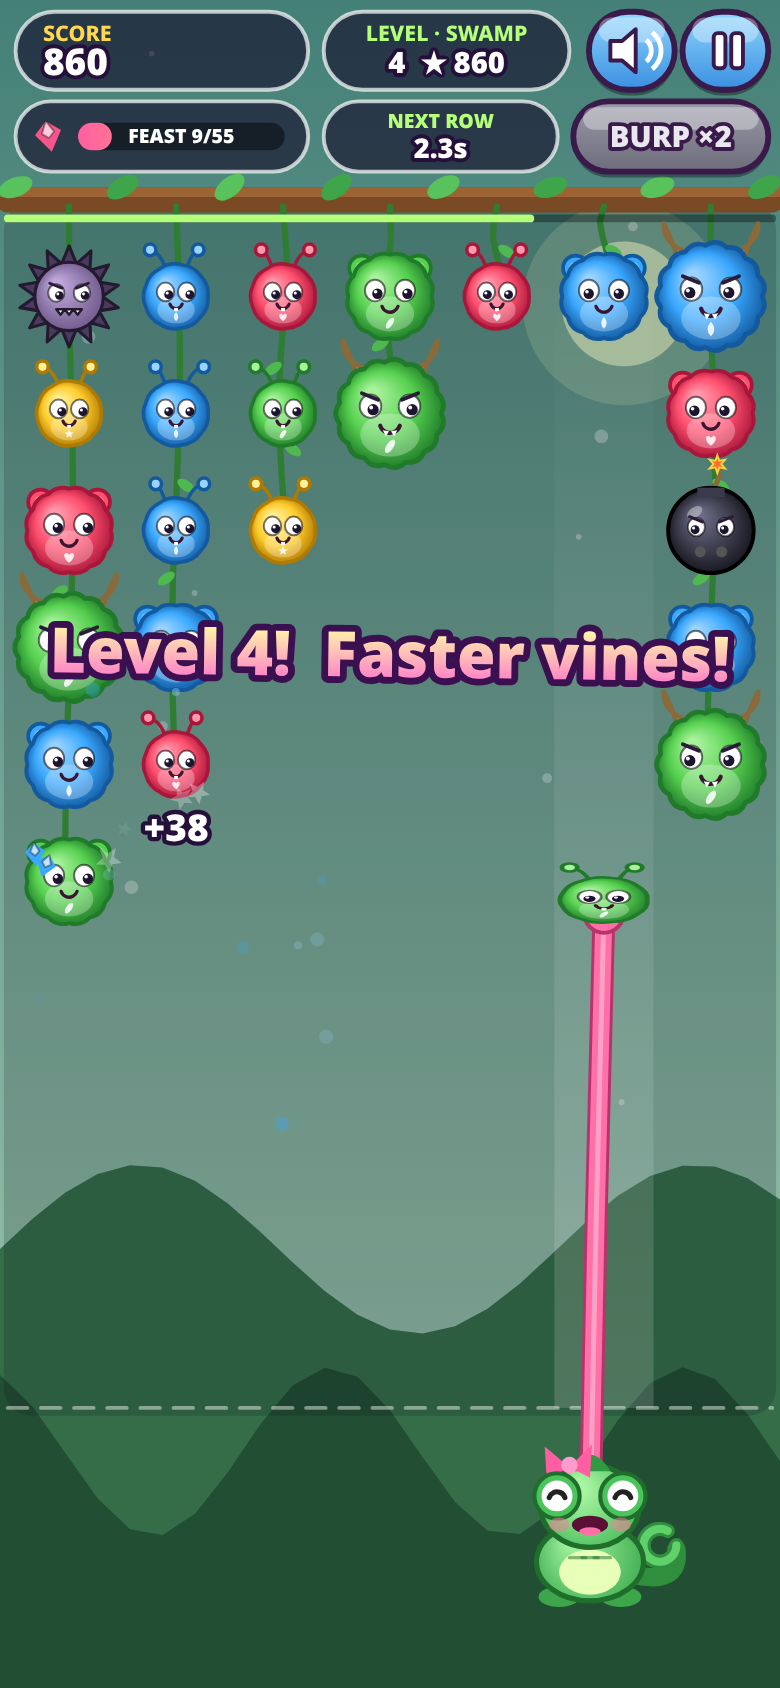
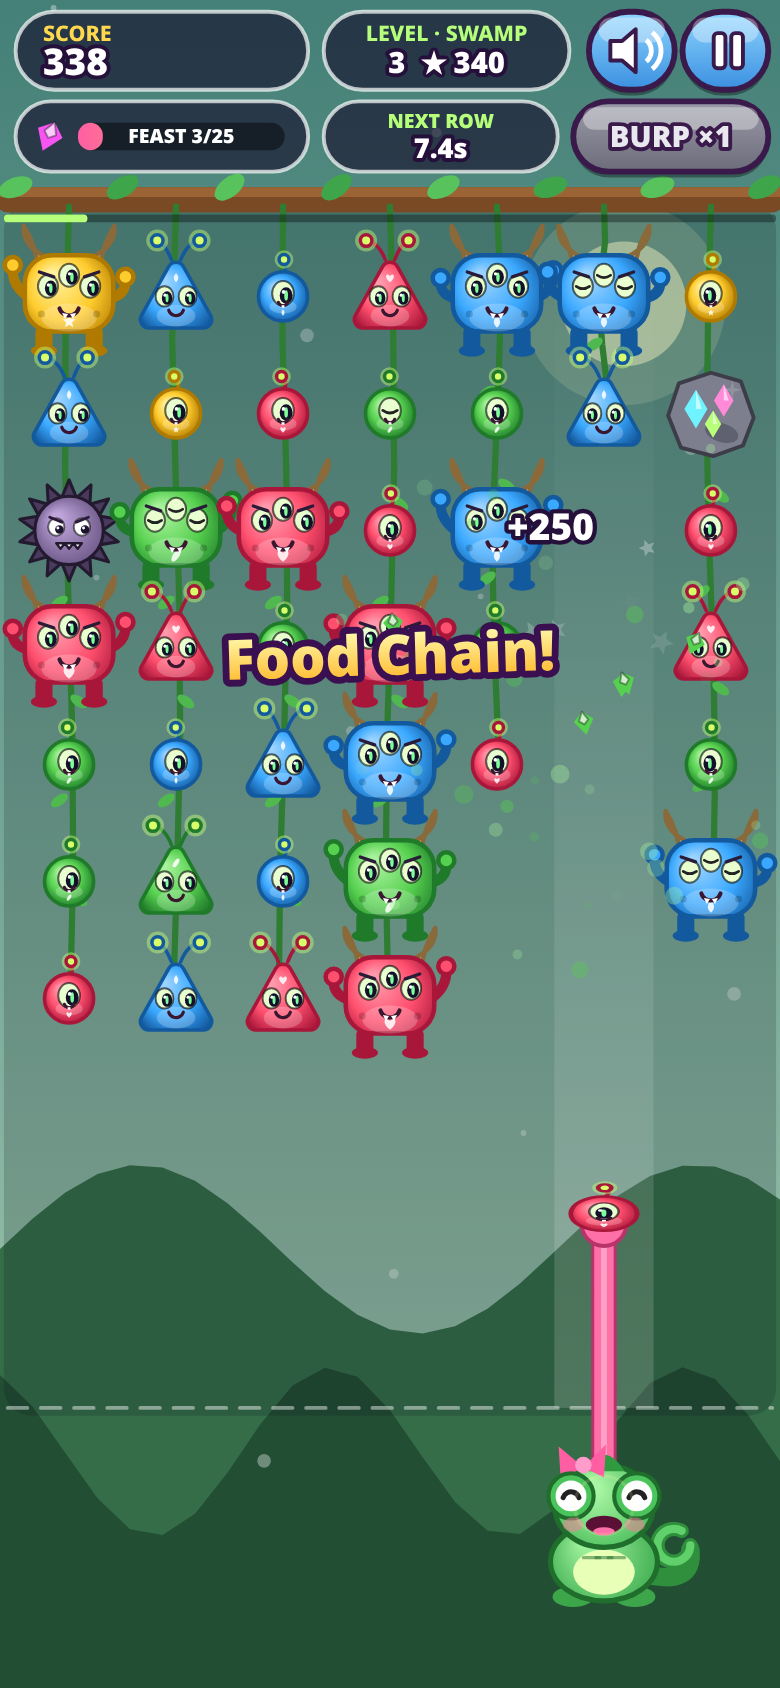
Kelly Crunch: alien critters with a distinct shape per size (round / triangle / horned brute with arms & legs), wider size gap, music at half volume

diff --git a/index.html b/index.html
@@ -107,7 +107,7 @@ const AU={ctx:null,m:null,sg:null,mg:null,nb:null,
   this.m=c.createGain();this.m.connect(c.destination);this.sg=c.createGain();this.sg.connect(this.m);this.mg=c.createGain();this.mg.connect(this.m);
   const comp=c.createDynamicsCompressor();this.m.disconnect();this.m.connect(comp);comp.connect(c.destination);
   const n=c.createBuffer(1,c.sampleRate*1,c.sampleRate),d=n.getChannelData(0);for(let i=0;i<d.length;i++)d[i]=Math.random()*2-1;this.nb=n;this.apply()}catch(e){this.ctx=null}},
- apply(){if(!this.ctx)return;const t=this.ctx.currentTime;this.m.gain.setTargetAtTime(save.muted?0:1,t,.02);this.sg.gain.setTargetAtTime(save.sfx?.75:0,t,.02);this.mg.gain.setTargetAtTime(save.music&&!paused?.30:0,t,.05)},
+ apply(){if(!this.ctx)return;const t=this.ctx.currentTime;this.m.gain.setTargetAtTime(save.muted?0:1,t,.02);this.sg.gain.setTargetAtTime(save.sfx?.75:0,t,.02);this.mg.gain.setTargetAtTime(save.music&&!paused?.15:0,t,.05)},
  unlock(){this.init();if(this.ctx&&this.ctx.state!=='running'&&!hidden)this.ctx.resume().catch(()=>{})},
  tone(f,d,type='square',v=.2,f2=null,dl=0,dest=null){const c=this.ctx;if(!c)return;const t=c.currentTime+dl,o=c.createOscillator(),g=c.createGain();o.type=type;o.frequency.setValueAtTime(f,t);if(f2)o.frequency.exponentialRampToValueAtTime(Math.max(20,f2),t+d);
   g.gain.setValueAtTime(0.0001,t);g.gain.exponentialRampToValueAtTime(v,t+.006);g.gain.exponentialRampToValueAtTime(.0001,t+d);o.connect(g);g.connect(dest||this.sg);o.start(t);o.stop(t+d+.03)},
@@ -163,7 +163,7 @@ const SIZES=['Nibbler','Muncher','Chomper'];
 const MAXR_E=10,MAXR_P=9,NC_E=7;
 const COMBO_WORDS=['','Crunchy!','Double Crunch!','Triple Crunch!','Super Crunch!','Mega Munch!','Ultra Munch!','KELLY CRUNCH!!'];
 const PUZ=PUZZLES; // generated + verified by solver (see build)
-const TIPS={0:'Swipe to move Kelly. Tap to grab the bottom critter, tap again to spit it!',1:'Feed a smaller critter to the next size up: Nibbler ➜ Muncher ➜ Chomper.',2:'A critter that has eaten is FULL (puffy cheeks). Feed it again and it POPS!',3:'Feed a FULL critter to a bigger one for a Food Chain pop!',4:'Pops spread to touching critters of the same size AND color.',10:'BOMBS eat any critter. Feed a bomb twice to blast everything around it!',15:'Never grab SPIKY critters! Pop something next to them to clear them.',20:'Gem rocks can’t be grabbed. Pop a critter beside one for a gem shower!'};
+const TIPS={0:'Swipe to move Kelly. Tap to grab the bottom critter, tap again to spit it!',1:'Feed a smaller critter to the next size up: Nibbler (round) ➜ Muncher (triangle) ➜ Chomper (horns & arms).',2:'A critter that has eaten is FULL (puffy cheeks). Feed it again and it POPS!',3:'Feed a FULL critter to a bigger one for a Food Chain pop!',4:'Pops spread to touching critters of the same size AND color.',10:'BOMBS eat any critter. Feed a bomb twice to blast everything around it!',15:'Never grab SPIKY critters! Pop something next to them to clear them.',20:'Gem rocks can’t be grabbed. Pop a critter beside one for a gem shower!'};
 let V=new Map(); // visual state per cell id
 function newVis(cell,x,y){const v={x,y,vx:0,vy:0,sx:1,sy:1,svx:0,svy:0,ph:Math.random()*6.28,open:0,blink:rand(1,4),look:0,shiver:0,eaten:null,bump:0};V.set(cell.id,v);return v}
 function geo(){const s=SB();const NC=G.NC,MAXR=G.MAXR;const tip=G.mode==='puzzle'?44:0;const top=s.t+122+tip;const bottomPad=106;
@@ -172,7 +172,7 @@ function geo(){const s=SB();const NC=G.NC,MAXR=G.MAXR;const tip=G.mode==='puzzle
  return{x0,colW,top,rowH,dangerY,base,kY:Math.min(s.b-14,dangerY+bottomPad-6),s,tip}}
 let GE=null;
 const colX=c=>GE.x0+GE.colW*(c+.5),rowY=r=>GE.top+GE.rowH*(r+.5);
-const radius=cell=>cell.k==='c'?GE.base*[.30,.39,.48][cell.s]:GE.base*.40;
+const radius=cell=>cell.k==='c'?GE.base*[.23,.36,.47][cell.s]:GE.base*.40;
 function startGame(mode,pi=0){AU.unlock();V=new Map();parts.length=0;gems.length=0;labels.length=0;
  G={mode,pi,NC:NC_E,MAXR:MAXR_E,B:[],kelly:{col:3,x:0,vx:0,stun:0,mouth:0,emo:'',emoT:0,squash:0,bob:0,look:0,blinkT:2,hop:0},hold:null,tg:null,flights:[],res:null,queue:[],
   score:0,shown:0,level:1,gemsN:0,need:25,pushT:0,burps:1,chainMax:0,popped:0,moves:0,limit:0,par:0,undo:[],t:0,panel:null,panelT:0,shake:0,hitstop:0,hint:null,warnT:0,danger:0,newBest:false,ann:null,tipT:0,overT:0,lastPush:0,clearBonus:0};
@@ -327,21 +327,39 @@ function eyes(R,ex,ey,er,v,kind){const K=G?G.kelly:null;const look=K?clamp((K.x-
   if(bl){X.strokeStyle='#222';X.lineWidth=er*.28;X.beginPath();X.moveTo(x-er*.7,y);X.quadraticCurveTo(x,y+er*.5,x+er*.7,y);X.stroke();continue}
   const px=x+look*er*.38,py=y+er*.32;X.fillStyle='#1d1530';X.beginPath();X.arc(px,py,er*.52,0,6.283);X.fill();X.fillStyle='#fff';X.beginPath();X.arc(px-er*.18,py-er*.2,er*.18,0,6.283);X.fill()}
  if(kind==='angry'){X.strokeStyle='#2a1c38';X.lineWidth=er*.35;X.lineCap='round';X.beginPath();X.moveTo(-ex-er*.8,ey-er*1.2);X.lineTo(-ex+er*.7,ey-er*.6);X.moveTo(ex+er*.8,ey-er*1.2);X.lineTo(ex-er*.7,ey-er*.6);X.stroke()}}
+function alienEyes(P,er,v,kind){const K=G?G.kelly:null;const look=K?clamp((K.x-v.x)/160,-1,1):Math.sin(RT+v.ph)*.6;const bl=v.blink<.12;
+ for(const [x,y] of P){X.fillStyle='#e9ffd0';X.beginPath();X.ellipse(x,y,er*1.05,er*1.2,0,0,6.283);X.fill();X.strokeStyle='rgba(0,0,0,.6)';X.lineWidth=Math.max(1,er*.14);X.stroke();
+  if(bl){X.strokeStyle='#222';X.lineWidth=er*.28;X.beginPath();X.moveTo(x-er*.7,y);X.quadraticCurveTo(x,y+er*.5,x+er*.7,y);X.stroke();continue}
+  const px=x+look*er*.3,py=y+er*.2;X.fillStyle='#14102a';X.beginPath();X.ellipse(px,py,er*.62,er*.8,0,0,6.283);X.fill();X.fillStyle='#7dff9a';X.beginPath();X.ellipse(px,py,er*.18,er*.5,0,0,6.283);X.fill();X.fillStyle='#fff';X.beginPath();X.arc(px-er*.25,py-er*.35,er*.18,0,6.283);X.fill()}
+ if(kind==='angry'){X.strokeStyle='#2a1c38';X.lineWidth=er*.35;X.lineCap='round';const a=P[0],b=P[P.length-1];X.beginPath();X.moveTo(a[0]-er*.9,a[1]-er*1.5);X.lineTo(a[0]+er*.6,a[1]-er*1.0);X.moveTo(b[0]+er*.9,b[1]-er*1.5);X.lineTo(b[0]-er*.6,b[1]-er*1.0);X.stroke()}}
 function drawCritter(cell,x,y,R,v,alpha=1){X.save();X.translate(x,y);const wob=cell.f?Math.sin(RT*9+v.ph)*.05:0;X.scale(v.sx*(1+wob),v.sy*(1-wob));if(alpha<1)X.globalAlpha=alpha;
  const lw=Math.max(1.8,R*.09);
  if(cell.k==='c'){const C=COLORS[cell.c],s=cell.s,full=cell.f;const RR=R*(full?1.08:1);
-  // ears / horns / antennae
-  X.lineWidth=lw;X.strokeStyle=C.d;
-  if(s===0){X.lineCap='round';for(const sx of [-1,1]){X.beginPath();X.moveTo(sx*RR*.3,-RR*.8);X.quadraticCurveTo(sx*RR*.5,-RR*1.4,sx*RR*.75+Math.sin(RT*4+v.ph)*2,-RR*1.45);X.stroke();X.fillStyle=C.l;X.beginPath();X.arc(sx*RR*.75+Math.sin(RT*4+v.ph)*2,-RR*1.45,RR*.18,0,6.283);X.fill();X.stroke()}}
-  else if(s===1){for(const sx of [-1,1]){X.fillStyle=C.b;X.beginPath();X.arc(sx*RR*.68,-RR*.68,RR*.3,0,6.283);X.fill();X.stroke();X.fillStyle=C.l;X.beginPath();X.arc(sx*RR*.68,-RR*.68,RR*.15,0,6.283);X.fill()}}
-  else{for(const sx of [-1,1]){X.fillStyle='#fff3d6';X.beginPath();X.moveTo(sx*RR*.35,-RR*.82);X.quadraticCurveTo(sx*RR*.95,-RR*1.0,sx*RR*.92,-RR*1.42);X.quadraticCurveTo(sx*RR*.7,-RR*1.0,sx*RR*.62,-RR*.62);X.closePath();X.fill();X.strokeStyle='#8a6a3a';X.stroke()}}
+  // ALIEN bodies: size 0 = round blob (1 eye, 1 antenna), 1 = TRIANGLE (2 eyes, 2 antennae), 2 = big brute with ARMS, LEGS, HORNS (3 eyes)
+  X.lineWidth=lw;X.strokeStyle=C.d;X.lineCap='round';
+  const glow=(x,y,r)=>{X.fillStyle='rgba(200,255,120,.45)';X.beginPath();X.arc(x,y,r*1.9,0,6.283);X.fill();X.fillStyle='#d8ff6a';X.beginPath();X.arc(x,y,r,0,6.283);X.fill();X.strokeStyle=C.d;X.stroke()};
+  const wv=Math.sin(RT*4+v.ph)*RR*.08;
+  if(s===0){X.beginPath();X.moveTo(0,-RR*.9);X.quadraticCurveTo(RR*.25,-RR*1.3,wv,-RR*1.5);X.stroke();glow(wv,-RR*1.5,RR*.2)}
+  else if(s===1){for(const sx of [-1,1]){X.strokeStyle=C.d;X.beginPath();X.moveTo(sx*RR*.12,-RR*.95);X.quadraticCurveTo(sx*RR*.3,-RR*1.4,sx*RR*.55+wv,-RR*1.45);X.stroke();glow(sx*RR*.55+wv,-RR*1.45,RR*.15)}}
+  else{// legs
+   X.fillStyle=C.d;for(const sx of [-1,1]){rr(sx*RR*.5-RR*.17,RR*.6,RR*.34,RR*.5,RR*.12);X.fill();X.beginPath();X.ellipse(sx*RR*.5,RR*1.08,RR*.26,RR*.12,0,0,6.283);X.fill()}
+   // arms (waving)
+   for(const sx of [-1,1]){const a=Math.sin(RT*5+v.ph+sx)*.35;X.strokeStyle=C.d;X.lineWidth=RR*.2;X.beginPath();X.moveTo(sx*RR*.75,RR*.05);X.quadraticCurveTo(sx*RR*1.15,RR*(-.1+a*.3),sx*RR*1.12,RR*(-.45+a*.4));X.stroke();
+    X.fillStyle=C.b;X.beginPath();X.arc(sx*RR*1.12,RR*(-.5+a*.4),RR*.16,0,6.283);X.fill();X.lineWidth=lw;X.stroke()}
+   // horns
+   for(const sx of [-1,1]){X.fillStyle='#fff3d6';X.beginPath();X.moveTo(sx*RR*.3,-RR*.72);X.quadraticCurveTo(sx*RR*.95,-RR*.95,sx*RR*.9,-RR*1.4);X.quadraticCurveTo(sx*RR*.65,-RR*1.0,sx*RR*.62,-RR*.55);X.closePath();X.fill();X.strokeStyle='#8a6a3a';X.lineWidth=lw;X.stroke()}}
   // body
   const gr=X.createRadialGradient(-RR*.35,-RR*.4,RR*.1,0,0,RR*1.1);gr.addColorStop(0,C.l);gr.addColorStop(.55,C.b);gr.addColorStop(1,C.d);
-  X.fillStyle=gr;fuzzPath(RR,[9,12,15][s],RR*[.10,.13,.14][s]);X.fill();X.strokeStyle=C.d;X.lineWidth=lw;X.stroke();
-  X.fillStyle='rgba(255,255,255,.28)';X.beginPath();X.ellipse(0,RR*.42,RR*.58,RR*.42,0,0,6.283);X.fill();
-  symbol(cell.c,0,RR*.64,RR*.15);
+  X.fillStyle=gr;X.beginPath();
+  if(s===0){X.arc(0,0,RR,0,6.283)}
+  else if(s===1){const P=[[0,-RR*1.12],[RR*1.08,RR*.82],[-RR*1.08,RR*.82]];const rad=RR*.22;X.moveTo((P[0][0]+P[2][0])/2,(P[0][1]+P[2][1])/2);for(let k=0;k<3;k++){const a=P[k],b=P[(k+1)%3];X.arcTo(a[0],a[1],b[0],b[1],rad)}X.closePath()}
+  else{rr(-RR*.88,-RR*.82,RR*1.76,RR*1.52,RR*.55)}
+  X.fill();X.strokeStyle=C.d;X.lineWidth=lw;X.stroke();
+  X.fillStyle='rgba(255,255,255,.22)';X.beginPath();X.ellipse(0,RR*(s===1?.5:.42),RR*(s===1?.5:.55),RR*.28,0,0,6.283);X.fill();
+  symbol(cell.c,s===1?0:0,s===0?RR*.66:s===1?-RR*.48:RR*.5,RR*(s===1?.13:.14));
+  if(s===2){X.fillStyle='rgba(0,0,0,.18)';for(const sx of [-1,1]){X.beginPath();X.arc(sx*RR*.55,RR*.35,RR*.07,0,6.283);X.fill()}}
   // face
-  const er=RR*[.27,.24,.21][s];eyes(RR,RR*[.33,.36,.38][s],-RR*.14,er,v,s===2&&!full?'angry':'');
+  if(s===1)X.translate(0,RR*.12);if(s===0)alienEyes([[0,-RR*.12]],RR*.42,v,'');else if(s===1)alienEyes([[-RR*.3,-RR*.12],[RR*.3,-RR*.12]],RR*.22,v,'');else alienEyes([[-RR*.42,-RR*.2],[0,-RR*.42],[RR*.42,-RR*.2]],RR*.19,v,full?'':'angry');
   const op=v.open;
   if(full){X.fillStyle='rgba(255,120,150,.55)';for(const sx of [-1,1]){X.beginPath();X.ellipse(sx*RR*.62,RR*.18,RR*.22,RR*.16,0,0,6.283);X.fill()}
    X.strokeStyle='#3a1630';X.lineWidth=lw*.9;X.lineCap='round';X.beginPath();X.moveTo(-RR*.22,RR*.3);X.quadraticCurveTo(-RR*.11,RR*.38,0,RR*.3);X.quadraticCurveTo(RR*.11,RR*.38,RR*.22,RR*.3);X.stroke();
@@ -540,7 +558,7 @@ function drawTitle(){const s=SB();menuBtns=[];
  if(midH>110){const cx=(s.l+s.r)/2;const cols=5,cw=Math.min(60,(s.r-s.l-40)/cols);const x0=cx-cw*cols/2;const yv=mid+12;X.fillStyle='#7a4a24';rr(x0-8,yv-8,cw*cols+16,10,5);X.fill();
   const demoCells=[[{k:'c',s:2,c:0,f:0},{k:'c',s:1,c:0,f:1}],[{k:'c',s:1,c:1,f:0},{k:'c',s:0,c:3,f:0}],[{k:'c',s:2,c:4,f:0},{k:'b',n:1}],[{k:'c',s:1,c:2,f:0},{k:'c',s:0,c:2,f:0}],[{k:'c',s:2,c:3,f:1},{k:'x'}]];
   const rh=Math.min(50,(midH-90)/2.4);const baseR=Math.min(cw,rh);GE=GE||{base:baseR};const oldGE=GE;GE={base:baseR,x0,colW:cw,top:yv,rowH:rh,dangerY:yv+rh*2.5,kY:by-12,s};
-  demoCells.forEach((col,c)=>col.forEach((cell,r)=>{const x=x0+cw*(c+.5),y=yv+rh*(r+.6)+Math.sin(RT*2+c)*2;X.strokeStyle='#2f7d33';X.lineWidth=3;X.beginPath();X.moveTo(x,yv);X.lineTo(x,y);X.stroke();drawCritter(cell,x,y,cell.k==='c'?baseR*[.3,.39,.48][cell.s]:baseR*.4,fakeV(c*1.3+r,x))}));
+  demoCells.forEach((col,c)=>col.forEach((cell,r)=>{const x=x0+cw*(c+.5),y=yv+rh*(r+.6)+Math.sin(RT*2+c)*2;X.strokeStyle='#2f7d33';X.lineWidth=3;X.beginPath();X.moveTo(x,yv);X.lineTo(x,y);X.stroke();drawCritter(cell,x,y,cell.k==='c'?baseR*[.23,.36,.47][cell.s]:baseR*.4,fakeV(c*1.3+r,x))}));
   const kx=x0+cw*(2.5+Math.sin(RT*.9)*1.6);drawKelly(kx,Math.min(by-12,yv+rh*2.5+90),clamp(baseR/52,.8,1.1));GE=oldGE}
  const bw=Math.min(280,s.r-s.l-40),bx=(s.l+s.r)/2-bw/2;
  button('endless',bx,by,bw,bh,'▶ Endless',()=>startGame('endless'),{col:['#b6ff7a','#46b04a'],sub:'Best '+(save.best||0).toLocaleString()+(save.bestCombo?'  ·  Best combo ×'+save.bestCombo:'')});
@@ -556,7 +574,7 @@ function drawLevels(){const s=SB();menuBtns=[];button('back',s.l+8,s.t+6,90,40,'
  for(let i=0;i<PUZ.length;i++){const c=i%cols,r=Math.floor(i/cols);const x=x0+c*(cw+gap),y=y0+r*(ch+gap);const lock=i>=un;const st=save.stars[i]||0;const tier=Math.floor(i/5);const tc=[['#b6ff7a','#46b04a'],['#8fd6ff','#3a8fe0'],['#ffd84d','#ff9f1c'],['#d6b4ff','#8a4ae0'],['#ff9ad0','#d4479a'],['#ffb07a','#e0602e']][tier%6];
   button('lv'+i,x,y,cw,ch,lock?'🔒':''+(i+1),()=>{if(!lock)startGame('puzzle',i)},{dis:lock,col:tc,r:14,px:Math.min(22,ch*.36),icon:lock?null:(bx,byy)=>{outlined(''+(i+1),bx,byy-ch*.1,Math.min(22,ch*.36),'#fff','#3a1a4a',4);X.font=FONT(Math.min(13,ch*.22));X.textAlign='center';X.fillStyle=st?'#fff6a0':'rgba(40,20,60,.5)';X.fillText('★'.repeat(st)+'☆'.repeat(3-st),bx,byy+ch*.26)}})}}
 const HOW=[{t:'Meet Kelly!',d:'Swipe left or right to move Kelly between columns. Tap anywhere to shoot her tongue up and grab the bottom critter. Tap again to spit it into the column above her. (Keyboard: ← → move, Space shoots.)',art:'kelly'},
- {t:'Feed the Food Chain',d:'Nibblers feed Munchers, and Munchers feed Chompers. Spit the wrong size and it just sticks on the bottom of the column.',art:'sizes'},
+ {t:'Feed the Food Chain',d:'Round Nibblers feed triangle Munchers, and Munchers feed horned Chompers. Spit the wrong size and it just sticks on the bottom of the column.',art:'sizes'},
  {t:'Full Critters Pop',d:'A critter that has eaten gets puffy cheeks: it is FULL. Feed it once more, or feed it to a bigger critter, and it POPS!',art:'full'},
  {t:'Chain Reactions',d:'A pop spreads to touching critters of the same size AND color. Critters below climb up, and if they climb into a bigger critter it eats them. That’s a combo!',art:'chain'},
  {t:'Special Critters',d:'BOMB: eats any critter; feed it twice to blast everything around it.  SPIKY: never grab it! Pop a neighbor to clear it.  GEM ROCK: can’t be grabbed; pop a neighbor for a gem shower.',art:'special'},
@@ -567,7 +585,7 @@ function drawHow(){const s=SB();menuBtns=[];const P=HOW[howPage];button('hx',s.r
  reg('hp',s.l+8,s.t+6,140,40);outlined((howPage+1)+' / '+HOW.length,s.l+40,s.t+26,16,'#fff','#24103a',4);
  let px=28;while(textW(P.t,px)>s.r-s.l-24&&px>16)px-=2;reg('ht',s.l+12,s.t+54,s.r-s.l-24,px+10);outlined(P.t,(s.l+s.r)/2,s.t+59+px/2,px,'#ffe14d','#3a1050',6);
  const ay=s.t+70+px,ah=Math.min(270,(s.b-ay)*.42);reg('ha',s.l+12,ay,s.r-s.l-24,ah);X.fillStyle='rgba(20,10,40,.45)';rr(s.l+12,ay,s.r-s.l-24,ah,18);X.fill();
- const cx=(s.l+s.r)/2,cy=ay+ah/2,R=Math.min(34,ah*.17);const C=(k,sz,c,f,x,y,n)=>drawCritter(k==='c'?{k,s:sz,c,f}:{k,n:n||0},x,y,k==='c'?R*[.62,.8,1][sz]:R*.85,fakeV(x,x));const arrow=(x1,x2,y)=>{X.strokeStyle='#fff';X.lineWidth=3;X.beginPath();X.moveTo(x1,y);X.lineTo(x2,y);X.lineTo(x2-7,y-6);X.moveTo(x2,y);X.lineTo(x2-7,y+6);X.stroke()};
+ const cx=(s.l+s.r)/2,cy=ay+ah/2,R=Math.min(34,ah*.17);const C=(k,sz,c,f,x,y,n)=>drawCritter(k==='c'?{k,s:sz,c,f}:{k,n:n||0},x,y,k==='c'?R*[.5,.76,1][sz]:R*.85,fakeV(x,x));const arrow=(x1,x2,y)=>{X.strokeStyle='#fff';X.lineWidth=3;X.beginPath();X.moveTo(x1,y);X.lineTo(x2,y);X.lineTo(x2-7,y-6);X.moveTo(x2,y);X.lineTo(x2-7,y+6);X.stroke()};
  GE=GE||{base:52};
  if(P.art==='kelly'){const kx=cx+Math.sin(RT*1.5)*60;drawKelly(kx,ay+ah-12,clamp(ah/180,.7,1.05));C('c',1,1,0,cx,ay+R+10);X.strokeStyle='rgba(255,255,255,.6)';X.lineWidth=2;X.setLineDash([5,5]);X.beginPath();X.moveTo(cx-90,ay+ah-30);X.lineTo(cx+90,ay+ah-30);X.stroke();X.setLineDash([])}
  else if(P.art==='sizes'){C('c',0,2,0,cx-100,cy);arrow(cx-78,cx-38,cy);C('c',1,2,0,cx,cy);arrow(cx+30,cx+66,cy);C('c',2,2,0,cx+100,cy);X.font=FONT(12,800);X.fillStyle='#fff';X.textAlign='center';['Nibbler','Muncher','Chomper'].forEach((n,i)=>X.fillText(n,cx-100+i*100,cy+R*1.5+8))}

diff --git a/sw.js b/sw.js
@@ -1,4 +1,4 @@
-const P='kelly-crunch-',V=P+'v3',OLD=[],FILES=['./','index.html','manifest.json','icon-192.png','icon-512.png'];
+const P='kelly-crunch-',V=P+'v5',OLD=[],FILES=['./','index.html','manifest.json','icon-192.png','icon-512.png'];
 self.addEventListener('install',e=>{e.waitUntil(caches.open(V).then(c=>c.addAll(FILES)));self.skipWaiting()});
 self.addEventListener('activate',e=>{e.waitUntil(caches.keys().then(k=>Promise.all(k.filter(n=>n!=V&&(n.startsWith(P)||OLD.some(o=>n.startsWith(o)))).map(n=>caches.delete(n)))).then(()=>self.clients.claim()))});
 self.addEventListener('fetch',e=>{if(e.request.method!='GET')return;e.respondWith(fetch(e.request).then(r=>{if(r.ok){const cp=r.clone();caches.open(V).then(c=>c.put(e.request,cp))}return r}).catch(()=>caches.open(V).then(c=>c.match(e.request,{ignoreSearch:true}).then(r=>r||(e.request.mode=='navigate'?c.match('./'):undefined)))))});
